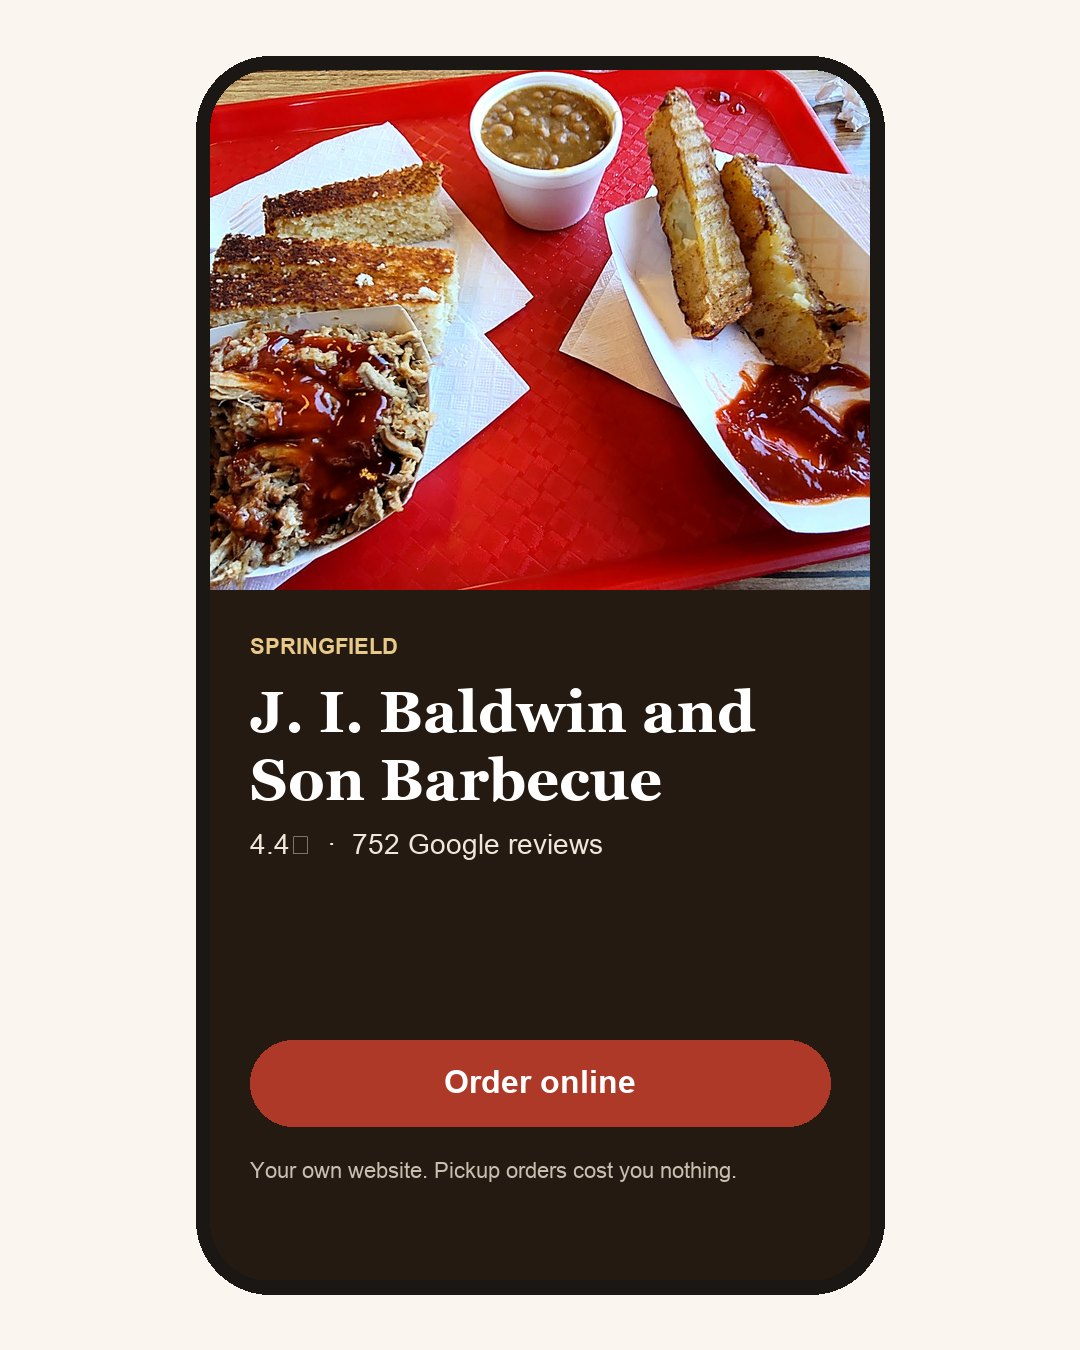
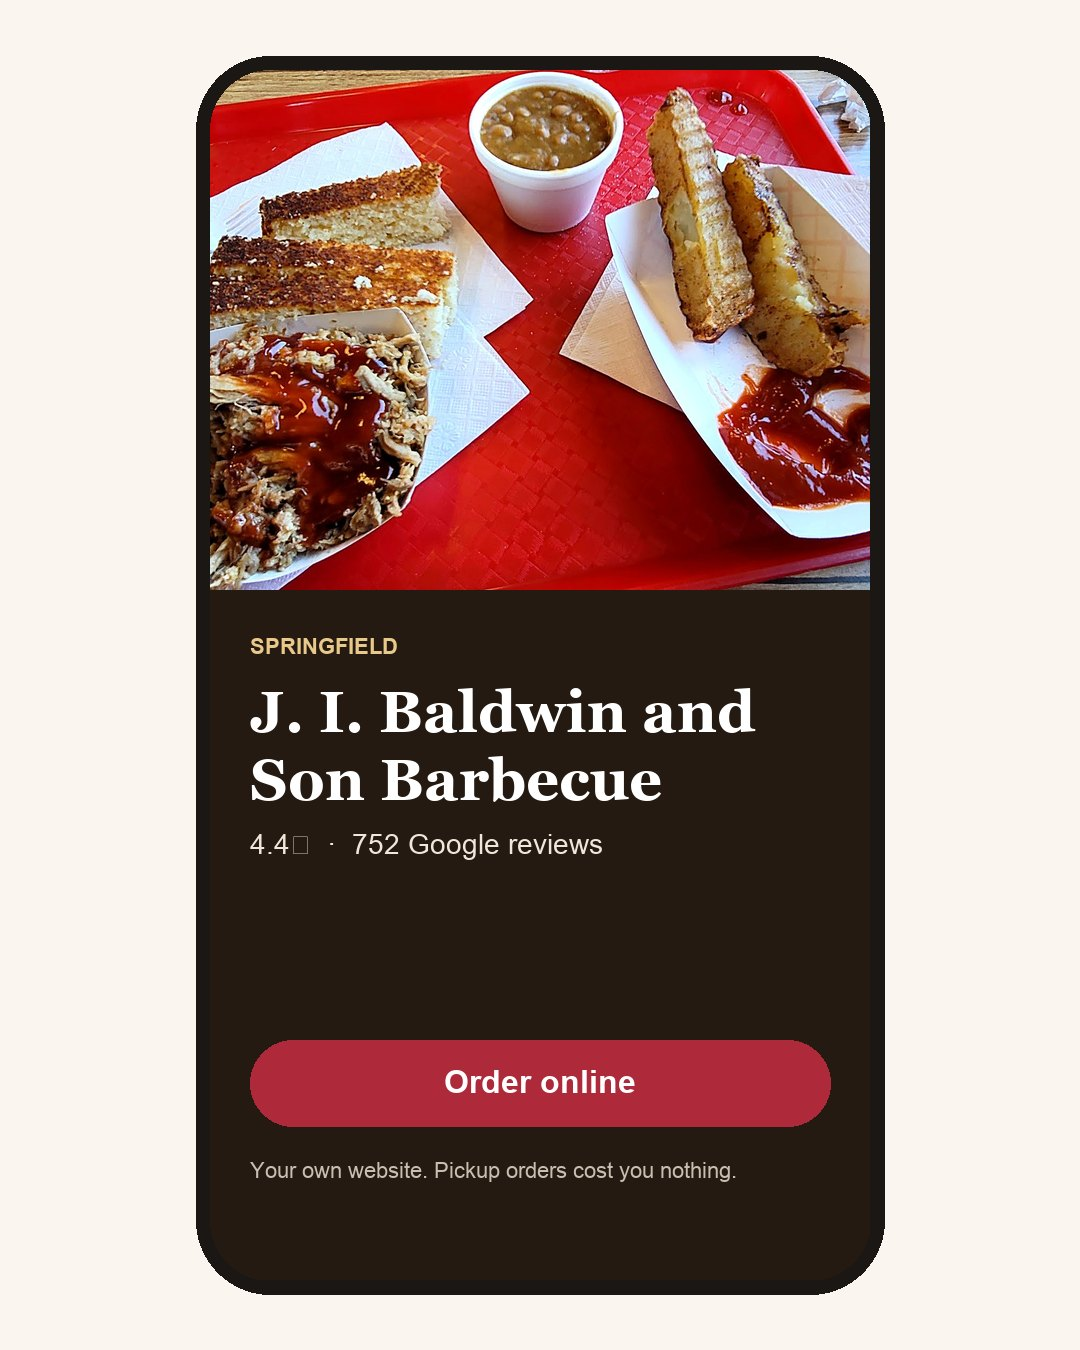
On-demand preview 2026-11-24 08:33:32

diff --git a/j-i-baldwin-and-son-barbecue-springfield/index.html b/j-i-baldwin-and-son-barbecue-springfield/index.html
@@ -131,8 +131,8 @@ blockquote footer{margin-top:10px;font-size:.88rem;color:var(--sage);font-weight
   .btn-call{border:1.5px solid var(--ink);color:var(--ink)}
 }
 </style>
-<style>:root{--amber:#AE3929;--amber-dk:#842C1F;--clay:#842C1F;--on-accent:#FFFFFF;--soft:#EFCDC8}</style>
-<meta name="prs-build" content="e7d9c1e784714bffad9be7c5bccf7063">
+<style>:root{--amber:#AE2939;--amber-dk:#841F2C;--clay:#841F2C;--on-accent:#FFFFFF;--soft:#EFC8CD}</style>
+<meta name="prs-build" content="161457b17a35471196c683e4c9776a56">
 </head>
 <body>
 <div class="claim-topbar">
@@ -146,7 +146,7 @@ blockquote footer{margin-top:10px;font-size:.88rem;color:var(--sage);font-weight
     <h1>J. I. Baldwin and Son Barbecue</h1>
     <p style="max-width:520px;font-size:1.1rem;opacity:.94">BBQ in Springfield — now taking orders straight from your own website.</p>
     <div class="ctas">
-      <a class="btn btn-primary" href="#order">Order online</a>
+      <a class="btn btn-primary" href="#menu">Order online</a>
       <a class="btn btn-ghost" href="#order">Order catering</a>
     </div>
   </div>
@@ -161,14 +161,14 @@ blockquote footer{margin-top:10px;font-size:.88rem;color:var(--sage);font-weight
 
 <section class="reviews"><div style="max-width:980px;margin:0 auto"><div class="eyebrow section-eyebrow">What locals say</div><h2>Already loved in Springfield</h2><div class="review-grid"><blockquote>"The service was awesome."<footer>— Evan, Google review</footer></blockquote><blockquote>"6 stars if I could. Best damn pulled pork sandwich I’ve had and I’m all over Tennessee. Make the effort to drive here, for real."<footer>— Steve, Google review</footer></blockquote></div></div></section>
 
-
+<section><div class="eyebrow section-eyebrow">What people rave about</div><h2>The dishes your customers name</h2><div class="raves"><div class="rave"><b>Potato wedges</b><span>named in 1 recent Google review</span></div><div class="rave"><b>Pulled pork sandwich</b><span>named in 1 recent Google review</span></div><div class="rave"><b>Peach cobbler</b><span>named in 1 recent Google review</span></div><div class="rave"><b>Bbq sandwich</b><span>named in 1 recent Google review</span></div></div></section>
 
 <section id="menu">
   <div class="eyebrow section-eyebrow">The menu</div>
-  <h2>Your food, front and center</h2>
-  <div class="menu-grid "><div class="dish"><div class="pad"><h3>Your menu here</h3><p>Real dishes, photos, and prices — organized and mobile-friendly.</p></div></div></div>
-  
-  <p class="menu-note">This preview uses your public photos — your real menu, prices, and photos drop straight in.</p>
+  <h2>Your menu, ready to order</h2>
+  <div class="menu-grid with-list"><div class="dish"><img src="photo-2.jpg" alt="J. I. Baldwin and Son Barbecue dish photo"><div class="pad"><h3>House favorite</h3><p>Straight from your kitchen — with your names and prices.</p></div></div><div class="dish"><img src="photo-3.jpg" alt="J. I. Baldwin and Son Barbecue dish photo"><div class="pad"><h3>Local pick</h3><p>Straight from your kitchen — with your names and prices.</p></div></div><div class="dish"><img src="photo-4.jpg" alt="J. I. Baldwin and Son Barbecue dish photo"><div class="pad"><h3>Customer favorite</h3><p>Straight from your kitchen — with your names and prices.</p></div></div></div>
+  <div class="menu-sec"><h3>Specialties</h3><div class="item"><div class="what"><b>Barbecue by the Pound</b></div><span class="price">$9.49</span><button class="add" type="button" data-name="Barbecue by the Pound" data-cents="949">Add</button></div><div class="item"><div class="what"><b>Small Tray of Barbecue</b></div><span class="price">$3.69</span><button class="add" type="button" data-name="Small Tray of Barbecue" data-cents="369">Add</button></div><div class="item"><div class="what"><b>Large Tray of Barbecue</b></div><span class="price">$4.49</span><button class="add" type="button" data-name="Large Tray of Barbecue" data-cents="449">Add</button></div><div class="item"><div class="what"><b>Barbecue Dinner</b></div><span class="price">$7.19</span><button class="add" type="button" data-name="Barbecue Dinner" data-cents="719">Add</button></div><div class="item"><div class="what"><b>Barbecue Sandwich</b></div><span class="price">$3.79</span><button class="add" type="button" data-name="Barbecue Sandwich" data-cents="379">Add</button></div><div class="item"><div class="what"><b>Wednesday Barbecue Sandwich</b></div><span class="price">$1.99</span><button class="add" type="button" data-name="Wednesday Barbecue Sandwich" data-cents="199">Add</button></div></div><div class="menu-sec"><h3>Sauces</h3><div class="item"><div class="what"><b>Sauces (All Varieties)</b><small>Original Sauce, Hot Sauce, Thick Sauce</small></div><span class="price">$3.69</span><button class="add" type="button" data-name="Sauces (All Varieties)" data-cents="369">Add</button></div></div><div class="menu-sec"><h3>Combos</h3><div class="item"><div class="what"><b>Combo #1 Barbecue Sandwich Special</b><small>All combos include 16 oz. drink</small></div><span class="price">$7.99</span><button class="add" type="button" data-name="Combo #1 Barbecue Sandwich Special" data-cents="799">Add</button></div><div class="item"><div class="what"><b>Combo #2 Logan&#x27;s Loaded Baked Potato Special</b><small>All combos include 16 oz. drink</small></div><span class="price">$7.99</span><button class="add" type="button" data-name="Combo #2 Logan&#x27;s Loaded Baked Potato Special" data-cents="799">Add</button></div><div class="item"><div class="what"><b>Combo #3 Barbecue Dinner Special</b><small>All combos include 16 oz. drink</small></div><span class="price">$7.99</span><button class="add" type="button" data-name="Combo #3 Barbecue Dinner Special" data-cents="799">Add</button></div></div><div class="menu-sec"><h3>Sides</h3><div class="item"><div class="what"><b>Broasted Potato Wedges</b></div></div><div class="item"><div class="what"><b>Mashed Potatoes &amp; Gravy</b></div></div><div class="item"><div class="what"><b>Mustard Potato Salad</b></div></div><div class="item"><div class="what"><b>Potato Chips</b></div></div><div class="item"><div class="what"><b>Vinegar Coleslaw</b></div></div><div class="item"><div class="what"><b>Salad Dressing Coleslaw</b></div></div><div class="item"><div class="what"><b>Baked Beans</b></div></div><div class="item"><div class="what"><b>White Beans</b></div></div><div class="item"><div class="what"><b>Barbecue Family Pack</b><small>Includes: 1 lb. barbecue, 2 sides, cornbread or buns</small></div><span class="price">$17.79</span><button class="add" type="button" data-name="Barbecue Family Pack" data-cents="1779">Add</button></div></div><div class="menu-sec"><h3>Desserts</h3><div class="item"><div class="what"><b>Peach Cobbler</b><small>Slice or bowl $2.59; whole $12.39 &amp; $15.49</small></div><span class="price">$2.59</span><button class="add" type="button" data-name="Peach Cobbler" data-cents="259">Add</button></div><div class="item"><div class="what"><b>Blackberry Cobbler</b><small>Slice or bowl $2.59; whole $12.39 &amp; $15.49</small></div><span class="price">$2.59</span><button class="add" type="button" data-name="Blackberry Cobbler" data-cents="259">Add</button></div><div class="item"><div class="what"><b>Cherry Cobbler</b><small>Slice or bowl $2.59; whole $12.39 &amp; $15.49</small></div><span class="price">$2.59</span><button class="add" type="button" data-name="Cherry Cobbler" data-cents="259">Add</button></div><div class="item"><div class="what"><b>Pecan Pie</b><small>Slice or bowl $2.59; whole $12.39 &amp; $15.49</small></div><span class="price">$2.59</span><button class="add" type="button" data-name="Pecan Pie" data-cents="259">Add</button></div></div><div class="menu-sec"><h3>Broasted Chicken (Per Piece)</h3><div class="item"><div class="what"><b>Breast</b></div><span class="price">$3.49</span><button class="add" type="button" data-name="Breast" data-cents="349">Add</button></div><div class="item"><div class="what"><b>Thigh</b></div><span class="price">$1.99</span><button class="add" type="button" data-name="Thigh" data-cents="199">Add</button></div><div class="item"><div class="what"><b>Leg</b></div><span class="price">$1.79</span><button class="add" type="button" data-name="Leg" data-cents="179">Add</button></div><div class="item"><div class="what"><b>Wing</b></div><span class="price">$1.19</span><button class="add" type="button" data-name="Wing" data-cents="119">Add</button></div></div><div class="menu-sec"><h3>Hot Chicken</h3><div class="item"><div class="what"><b>Breast</b></div><span class="price">$3.49</span><button class="add" type="button" data-name="Breast" data-cents="349">Add</button></div><div class="item"><div class="what"><b>Thigh</b></div><span class="price">$1.99</span><button class="add" type="button" data-name="Thigh" data-cents="199">Add</button></div><div class="item"><div class="what"><b>Leg</b></div><span class="price">$1.79</span><button class="add" type="button" data-name="Leg" data-cents="179">Add</button></div><div class="item"><div class="what"><b>Wing</b></div><span class="price">$1.19</span><button class="add" type="button" data-name="Wing" data-cents="119">Add</button></div></div><div class="menu-sec"><h3>Chicken</h3><div class="item"><div class="what"><b>Tenders</b></div><span class="price">$3.99</span><button class="add" type="button" data-name="Tenders" data-cents="399">Add</button></div><div class="item"><div class="what"><b>Hot Wings</b></div><span class="price">$3.99</span><button class="add" type="button" data-name="Hot Wings" data-cents="399">Add</button></div><div class="item"><div class="what"><b>Dinners</b></div><span class="price">$7.49</span><button class="add" type="button" data-name="Dinners" data-cents="749">Add</button></div><div class="item"><div class="what"><b>8 Piece Box</b></div><span class="price">$14.49</span><button class="add" type="button" data-name="8 Piece Box" data-cents="1449">Add</button></div><div class="item"><div class="what"><b>Cold Chicken</b></div><span class="price">$2.50</span><button class="add" type="button" data-name="Cold Chicken" data-cents="250">Add</button></div></div><div class="menu-sec"><h3>Chicken Dinners</h3><div class="item"><div class="what"><b>2 Piece White</b></div><span class="price">$7.49</span><button class="add" type="button" data-name="2 Piece White" data-cents="749">Add</button></div><div class="item"><div class="what"><b>2 Piece Dark</b></div><span class="price">$6.59</span><button class="add" type="button" data-name="2 Piece Dark" data-cents="659">Add</button></div><div class="item"><div class="what"><b>8 Piece</b></div><span class="price">$20.59</span><button class="add" type="button" data-name="8 Piece" data-cents="2059">Add</button></div></div>
+  <p class="menu-note">Read from the menu posted on your Google listing. Tap Add to try an order. We confirm every item and price with you before anything goes live.</p>
 </section>
 
 <section id="order" class="visit">
@@ -196,7 +196,7 @@ blockquote footer{margin-top:10px;font-size:.88rem;color:var(--sage);font-weight
   </div>
 </div>
 <nav class="action-bar" aria-label="Order">
-  <a class="btn btn-primary" href="#order">Order online</a>
+  <a class="btn btn-primary" href="#menu">Order online</a>
   <a class="btn btn-call" href="tel:6153843426">Call</a>
 </nav>
 <script>
